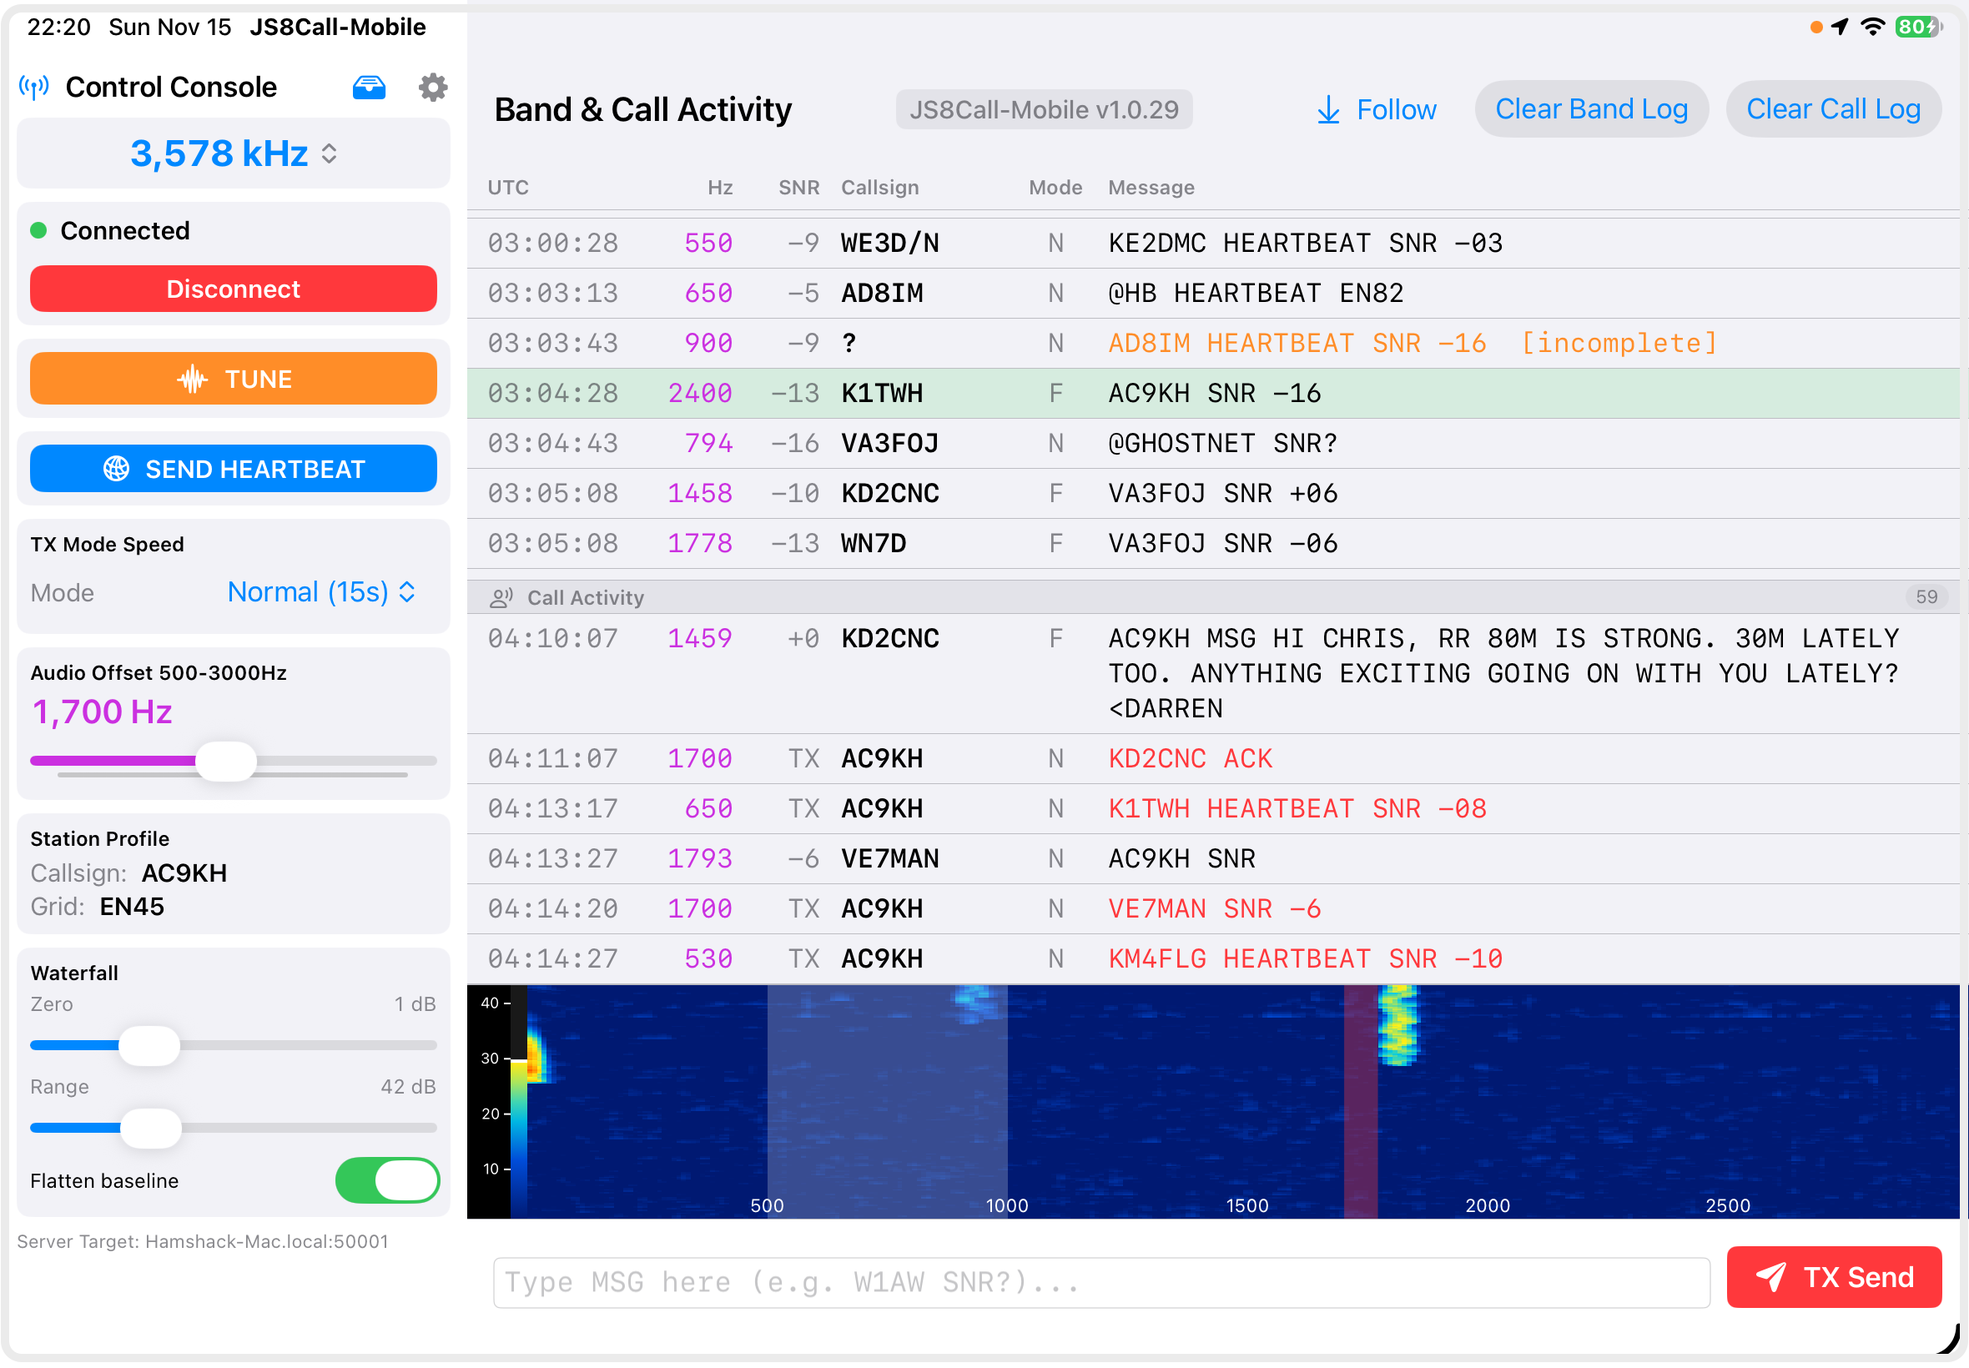
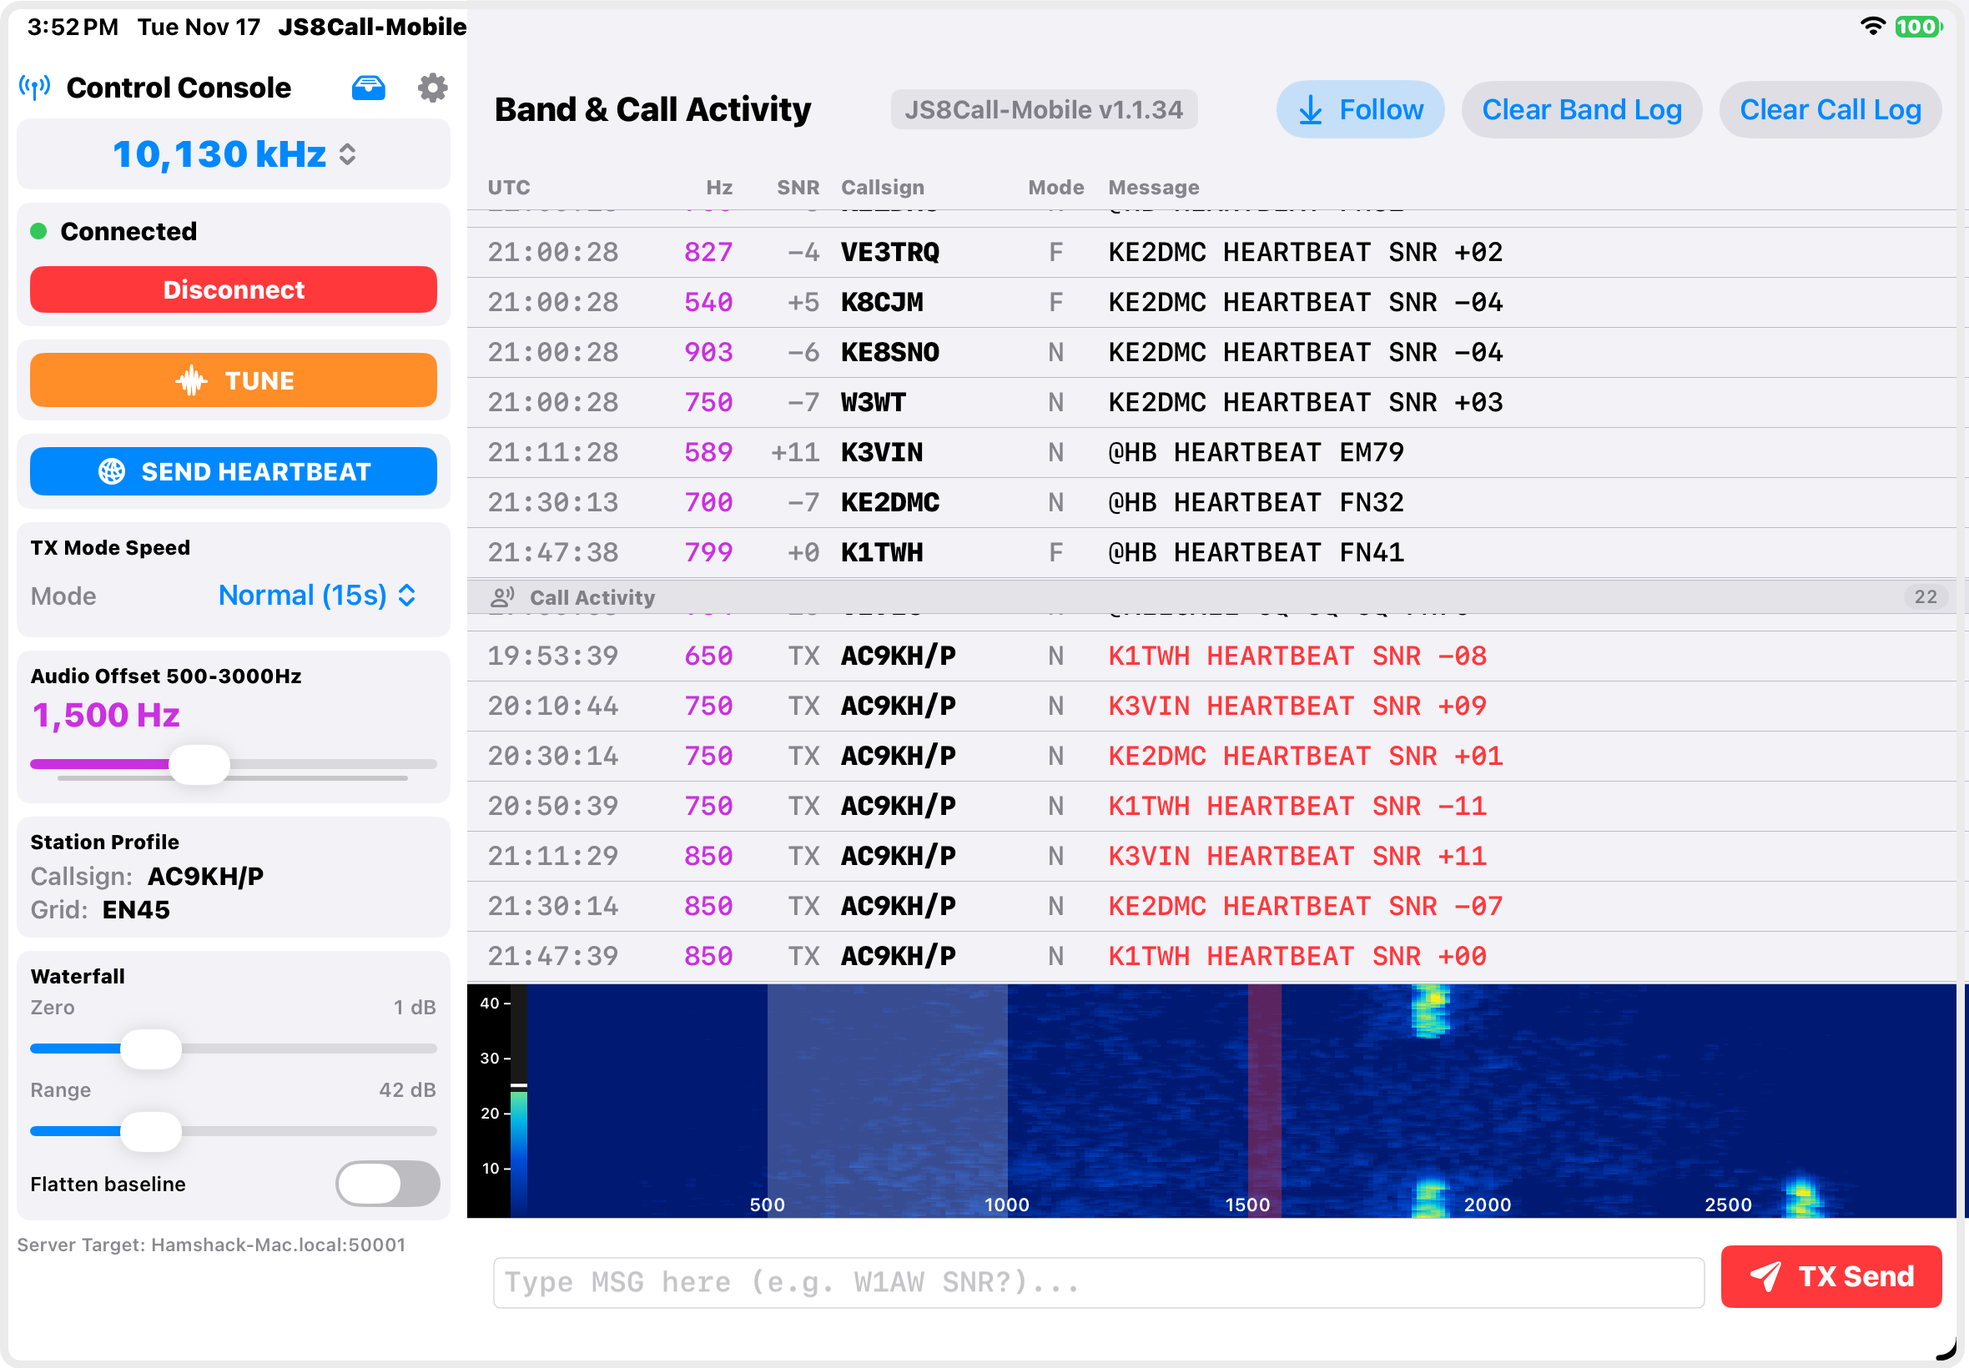
New draft of User Guide listing supported radios and SDR clients New github.io website for JS8Call-Mobile Add stylesheet to website New screenshot of v1.1.34

diff --git a/assets/css/style.scss b/assets/css/style.scss
@@ -1,0 +1,28 @@
+---
+---
+
+@import "{{ site.theme }}";
+
+/* Widen the main reading container on desktop screens */
+.main-content {
+  max-width: 80rem;
+}
+
+/* Tighten table font size and padding so columns stay compact */
+.main-content table {
+  font-size: 0.875rem;
+  width: 100%;
+}
+
+.main-content table th,
+.main-content table td {
+  padding: 0.5rem 0.75rem;
+}
+
+/* Keep the first two columns from wrapping awkwardly */
+.main-content table th:nth-child(1),
+.main-content table td:nth-child(1),
+.main-content table th:nth-child(2),
+.main-content table td:nth-child(2) {
+  white-space: nowrap;
+}

diff --git a/README.md b/README.md
@@ -4,9 +4,9 @@
 
 *Coming soon to the Apple App Store for iPadOS and Mac*
 
-**JS8Call-Mobile** is a full-featured amateur radio weak-signal digital mode client for iPadOS (and Mac Catalyst), built on the **JS8Core** engine. It allows licensed amateur radio operators to decode, compose, relay, and store-and-forward JS8 messages over a local network **TCI (Transceiver Control Interface)** connection or via direct iPad audio coupling.
+**JS8Call-Mobile** is a full-featured amateur radio weak-signal digital mode client for iPadOS (also runs on Mac), built on the **JS8Core** engine. It allows licensed amateur radio operators to decode, compose, relay, and store-and-forward JS8 messages over a local network **TCI (Transceiver Control Interface)** connection or via direct iPad audio coupling.
 
-* **Author:** Chris Olson (AC9KH)
+* **Developer:** Chris Olson (AC9KH)
 * **License:** BSD 3-Clause (App) / MIT (JS8Core)
 * **Privacy Policy:** [View Privacy Policy](PRIVACY.md)
 * **Support & Bug Reports:** [GitHub Issues](https://github.com/Chris-AC9KH/JS8Call-Mobile/issues)
@@ -19,13 +19,31 @@
 
 ## Features
 
-* **TCI Network Integration:** Connects directly over Wi-Fi/LAN to TCI-compatible Software Defined Radios (SDRs) and transceiver servers (such as ExpertSDR3, Thetis, and SunSDR), or FlexRadio with the open-source AetherSDR client for real-time VFO tuning, band preset switching, audio streaming, and PTT keying.
-* **Local iPad Audio Mode:** Decode and transmit JS8 signals using your iPad's built-in microphone/speaker or an external USB/Lightning audio interface when TCI is disconnected. For keying of the rig with local audio it requires a radio that supports VOX trigger over USB audio, or a compatible USB->analog audio interface to the rig.
+* **TCI Network Integration:** Connects directly over Wi-Fi/LAN to any TCI-compatible SDR server or client—including native TCI platforms (such as **ExpertSDR3**, **Thetis**, **SunSDR**, **AetherSDR**, **Quisk**, and **WFview**) as well as Marcus Roskosch's (DL8MRE) **Common-Radio** apps for macOS/iPadOS—providing real-time VFO tuning, band preset switching, audio streaming, and PTT keying across a wide range of transceivers.
+
+### Supported TCI Servers, Clients & Radios
+
+| TCI Server / SDR Client | Platform | Supported Transceivers & Hardware |
+| :--- | :--- | :--- |
+| **ExpertSDR3 / ExpertSDR2** | Windows, macOS, Linux | Expert Electronics SunSDR2 DX, SunSDR2 PRO, SunSDR2 QRP, MB1, ColibriDDC |
+| **Thetis** | Windows | Apache Labs ANAN series (OpenHPSDR protocol radios) and Hermes-Lite 2 |
+| **AetherSDR** | macOS, Linux | FlexRadio FLEX-6000 and FLEX-8000 Signature Series |
+| **Quisk** *(N2ADR)* | Windows, Linux, macOS | Hermes-Lite 2, HiQSDR, Odyssey, SoftRock, SDR-IQ, Perseus, and SoapySDR hardware |
+| **WFview** *(Custom TCI Build)* | macOS | Icom network- and USB-capable transceivers (IC-705, IC-7300, IC-7610, IC-7760, IC-9700, IC-R8600, IC-7850/7851) |
+| **SmartSDR for Mac / iOS** *(DL8MRE)* | macOS, iPadOS, iOS | FlexRadio FLEX-6000, FLEX-8000, and Aurora Series (local or SmartLink) |
+| **SDR-Control** *(DL8MRE)* | macOS, iPadOS, iOS | Icom IC-705, IC-7300, IC-7300 MK2, IC-7610, IC-7760, IC-9700, IC-R8600 |
+| **FT-Control** *(DL8MRE)* | macOS, iPadOS, iOS | Yaesu FTdx101D, FTdx101MP, FTdx10, FT-710 *(via Yaesu SCU-LAN10)* |
+| **TS-Control** *(DL8MRE)* | macOS, iPadOS, iOS | Kenwood TS-890S *(via built-in LAN)* |
+| **K4-Control** *(DL8MRE)* | macOS, iPadOS, iOS | Elecraft K4, K4D, K4HD |
+
+* **Local iPad Audio Mode:** Decode and transmit JS8 signals using your iPad's built-in microphone/speaker
+* **Using Non-TCI Transceivers:** Any radio with analog audio I/O (such as the Xiegu G90, older HF transceivers, or field QRP rigs) can still be used with JS8Call-Mobile in **Local iPad Audio Mode**. Simply connect a class-compliant USB sound card or USB-C audio interface (such as a Digirig or Sabrent USB audio adapter) to your iPad and enable **VOX** on your transceiver for PTT keying.
 * **Split Band & Call Activity Panes:** Separates general band monitoring (**Band Activity**) from directed messages, `@ALLCALL` broadcasts, and your own transmissions (**Call Activity**).
 * **Tap-to-Target QSOs & Command Helper:** Tap any incoming row in **Call Activity** to lock onto that station for a multi-turn QSO, or tap-and-hold (right-click on Mac) to open a categorized JS8 command helper menu.
-* **Multi-Frame Assembly & Speed Modes:** Automatically assembles multi-frame JS8 transmissions in place with UTC timestamps, audio offset (`Hz`), signal-to-noise ratio (`SNR`), callsign, submode (`S`, `N`, `F`, `40`, `60`), and frame status indicators (`[incomplete]`, `[checksum failed]`). NOTE: JS8Call-Mobile only supports transmitting in Slow, Normal or Fast modes since VOX won't work reliably with JS8 40 and JS8 60 modes due to clipping of leading symbols when using a VOX trigger.
+* **Multi-Frame Assembly & Speed Modes:** Automatically assembles multi-frame JS8 transmissions in place with UTC timestamps, audio offset (`Hz`), signal-to-noise ratio (`SNR`), callsign, submode (`S`, `N`, `F`, `40`, `60`), and frame status indicators (`[incomplete]`, `[checksum failed]`). **NOTE:** JS8Call-Mobile only supports transmitting in Slow, Normal or Fast modes since VOX won't work reliably with JS8 40 and JS8 60 modes due to clipping of leading symbols when using a VOX trigger to key your rig.
 * **Store-and-Forward Inbox & Live Relays:** Full support for storing messages in a local SQLite inbox, multi-hop relay routing (`>`), automatic `RETRIEVE MSG` notifications, and full JS8 directed command auto-replies.
 * **Live Waterfall & Passband Monitor:** Real-time spectrum waterfall (`500–3000 Hz`) with adjustable **Zero** floor, **Range**, **Flatten baseline** toggle, and visual TX audio offset marker.
+* **New for v1.1.x & Later:** Saves **Band Activity** and **Call Activity** logs for each band, persistent on app shutdown and restart, until they are cleared using the **Clear Band/Call Log** buttons. Will store up to 400 records for each log, for each band.
 
 ---
 
@@ -37,17 +55,22 @@
 3. Tap **Done** to save. Your settings are stored locally on your iPad.
 
 ### 2. Choose Your Audio / Radio Connection
-JS8Call-Mobile supports two operating modes:
+JS8Call-Mobile supports three operating modes:
 
-* **Option A: TCI Network Connection (Recommended)**
-  1. Open **Preferences and Settings** and enter your TCI server's **IP Address** (or `.local` hostname) and **Connection Port** (default `40001` or `50001`).
+* **Option A: TCI Network Connection (recommended)**
+  1. Open **Preferences and Settings** and enter your TCI server's **IP Address** (or `.local` hostname) and **Connection Port** (default **`40001`** for most TCI clients including DL8MRE Common-Radio apps, or `50001` on some ExpertSDR/Thetis/AetherSDR and WFview setups).
   2. Ensure **Use iPad audio when TCI is disconnected** is turned off. Only use this if you intend to use USB or mic/speaker audio.
   3. On the main **Control Console**, tap **Connect TCI**. The status dot will turn green (**Connected**) and your active VFO frequency will appear at the top.
 
-* **Option B: Local iPad Audio Coupling**
+ **Option B: USB Audio Connection**
   1. Open **Preferences and Settings** and enable **Use iPad audio when TCI is disconnected**.
   2. Grant microphone permission when prompted by iPadOS.
-  3. Use a USB audio interface connected to your transceiver or acoustic coupling near your radio's speaker/mic.
+  3. Use a USB-C or Lightning to analog audio interface connected to your iPad.
+
+* **Option C: Local iPad Audio Coupling**
+  1. Open **Preferences and Settings** and enable **Use iPad audio when TCI is disconnected**.
+  2. Grant microphone permission when prompted by iPadOS.
+  3. Use acoustic coupling near your radio's speaker/mic.
 
 ---
 
@@ -57,13 +80,14 @@ JS8Call-Mobile supports two operating modes:
 * **Inbox (`📥`):** Opens your stored message inbox. A red badge displays the count of unread messages addressed to your callsign. You can compose outbound store-and-forward messages, read received messages, and manage stored traffic.
 * **Connect TCI / Disconnect:** Opens or closes the network socket to your TCI server. A red **TX** badge appears next to the status indicator whenever the transmitter is keyed.
 * **TUNE:** Transmits a continuous carrier tone at your selected **Audio Offset** frequency so you can tune an antenna tuner or verify RF output. Tap **TUNING...** again to stop *(requires active TCI connection, tune is disabled for iPad audio)*.
-* **SEND HEARTBEAT:** Broadcasts an `@HB HEARTBEAT [GRID]` frame on a clear frequency automatically chosen inside the `500–950 Hz` heartbeat sub-band.
+* **SEND HEARTBEAT:** Broadcasts an `@HB HEARTBEAT [GRID]` frame on a clear frequency automatically chosen inside the `500–1000 Hz` heartbeat sub-band.
 * **TX Mode Speed:** Selects your outbound transmit submode: **Slow (30s)**, **Normal (15s)**, or **Fast (10s)**. Incoming frames are decoded across all supported submodes (`S`, `N`, `F`, `40`, `60`).
-* **Audio Offset (500–3000 Hz):** Sets your transmit audio tone frequency in 10 Hz steps, indicated by the vertical marker on the waterfall. Your offset remains locked where you set it for all directed transmissions and replies; only `@HB` broadcasts and `HEARTBEAT ACK` responses use the `500–950 Hz` heartbeat sub-band.
+* **Audio Offset (500–3000 Hz):** Sets your transmit audio tone frequency in 10 Hz steps, indicated by the vertical marker on the waterfall. Your offset remains locked where you set it for all directed transmissions and replies; only `@HB` broadcasts and `HEARTBEAT ACK` responses use the `500–1000 Hz` heartbeat sub-band.
 * **Waterfall Controls:**
-  * **Zero:** Adjusts the minimum signal floor (`dB`) displayed on the waterfall.
+  * **Zero:** Adjusts the minimum signal floor (`dB`) to remove "white noise" from the waterfall.
   * **Range:** Adjusts the dynamic contrast range (`dB`) of incoming signals.
   * **Flatten baseline:** Normalizes passband tilt across the receiver filter width.
+
 ---
 
 ## Reading & Composing Messages
@@ -76,6 +100,7 @@ The main log view is divided into two synchronized panes sharing the same column
   * **Orange text** indicates partial (`[incomplete]`) or corrupted (`[checksum failed]`) frames.
 * **Call Activity (Middle Pane):** Filters traffic down to QSO-relevant activity: incoming messages addressed to you, `@ALLCALL` traffic, and your own outgoing transmissions.
   * **Red text** indicates your own outgoing transmissions (`TX`).
+  * **NOTE:** JS8Call-Mobile does not display a EOT or End Of Transmission indicator. Incoming messages appear as greyed-out text followed by three dots ... until the message is complete, at which time the text switches to normal, indicating EOT.
 * **Follow / Clear Controls:**
   * **Follow** keeps both logs scrolled to the newest message (dragging either log manually pauses Follow until toggled back on).
   * **Clear Band Log** empties the top Band Activity pane.
@@ -100,24 +125,25 @@ Open **Preferences and Settings** to configure unattended or semi-automated stat
   * `[YOURCALL] HEARING?` → Replies with up to the 4 most recently heard callsigns (`HEARING CALL1 CALL2 CALL3 CALL4`).
   * `[YOURCALL] QUERY CALL [CALL]?` (or `@ALLCALL QUERY CALL [CALL]?`) → Replies with `YES [CALL] [SNR] [AGE]` if heard, or `NO` (for direct queries) if not heard.
   * `[YOURCALL] AGN?` → Re-transmits your most recent outgoing message to that station from **Call Activity**.
-  * `[YOURCALL] MSG [TEXT]` / `MSG TO:[CALL] [TEXT]` → Stores the message in your local SQLite inbox and replies with `ACK`.
+  * `[YOURCALL] MSG [TEXT]` / `MSG TO:[CALL] [TEXT]` → Stores the message in your local Message Inbox and replies with `ACK`.
   * `[YOURCALL] QUERY MSGS` / `QUERY MSG [ID]` → Advertises (`YES MSG ID #`) and delivers stored messages addressed to the requesting station, marking them read upon `ACK`.
   * `[YOURCALL]>[NEXTHOP] [TEXT]` → Automatically forwards multi-hop relay frames along the specified callsign path and routes returning `ACK` confirmations back to the originator.
-* **Push Retrieve Notices & Alerts:** When **Auto-Replies** is enabled, JS8Call-Mobile periodically notifies recently heard stations (`[CALL] RETRIEVE MSG [ID]`) if you are holding unread mail for them. When another station sends you a `RETRIEVE MSG` notice, an alert banner pops up with the exact `QUERY MSG` command needed to retrieve it.
-* **Enable Heartbeat ACK:** Automatically responds to incoming `@HB` broadcasts with a signal report (`HEARTBEAT SNR +XX`) on a clear `500–950 Hz` sub-band offset, with a built-in **55-minute cooldown** per callsign to prevent duplicate QRM.
-* **Hold PTT between frames of multi-frame messages:** Keeps the transmitter keyed continuously across frame boundaries during multi-frame transmissions instead of unkeying between frames. This only applies to TCI connected radios.
+* **Push Retrieve Notices & Alerts:** When **Auto-Replies** is enabled, JS8Call-Mobile periodically notifies recently heard stations (`[CALL] RETRIEVE MSG [ID]`) if you are holding unread mail for them. When another station sends you a `RETRIEVE MSG` notice, an alert banner pops up with the exact `QUERY MSG` command needed to retrieve it. If JS8Call-Mobile has sent a stored message notification to a station and the message is not retrieved, it will re-notify at most once every 8 hours if that station is seen on the band again.
+* **Enable Heartbeat ACK:** Automatically responds to incoming `@HB` broadcasts with a signal report (`HEARTBEAT SNR +XX`) on a clear `500–1000 Hz` sub-band offset. JS8Call-Mobile will not reply with a HB ACK to the same station more than once every 55 minutes.
+* **Hold PTT between frames of multi-frame messages:** Keeps the transmitter keyed continuously across frame boundaries during multi-frame transmissions instead of unkeying between frames. This only applies to TCI connected radios with CAT control.
 
 ---
 
-## URLs for App Store Connect & Settings
+## Support and Links
 
 * **User Guide: this document**
 * **Support:** via the issues list at [JS8Call-Mobile](https://github.com/Chris-AC9KH/JS8Call-Mobile/issues)
-* **[Privacy Policy](https://github.com/Chris-AC9KH/JS8Call-Mobile/blob/main/PRIVACY.md)**
+* [**Privacy Policy**](PRIVACY.html)
+
 ---
 
 ## Acknowledgments & Licenses
 
-* **JS8Call-Mobile** is licensed under the **BSD 3-Clause License**. See [`LICENSE`](LICENSE) for full details.
+* **JS8Call-Mobile** is licensed under the **BSD 3-Clause License**. See [`LICENSE`](LICENSE.html) for full details.
 * Built using **[JS8Core](https://github.com/JS8Call-improved/JS8Core)**, licensed under the **MIT License** (Copyright © 2025 js8core contributors, © 2018 Jordan Sherer, © 2026 JS8Call Official).
 

diff --git a/LICENSE.md b/LICENSE.md
@@ -1,0 +1,15 @@
+---
+layout: default
+title: BSD 3-Clause License
+---
+
+Copyright (c) 2026, Chris Olson (AC9KH)  
+All rights reserved.
+
+Redistribution and use in source and binary forms, with or without modification, are permitted provided that the following conditions are met:
+
+1. Redistributions of source code must retain the above copyright notice, this list of conditions and the following disclaimer.
+2. Redistributions in binary form must reproduce the above copyright notice, this list of conditions and the following disclaimer in the documentation and/or other materials provided with the distribution.
+3. Neither the name of the copyright holder nor the names of its contributors may be used to endorse or promote products derived from this software without specific prior written permission.
+
+THIS SOFTWARE IS PROVIDED BY THE COPYRIGHT HOLDERS AND CONTRIBUTORS "AS IS" AND ANY EXPRESS OR IMPLIED WARRANTIES, INCLUDING, BUT NOT LIMITED TO, THE IMPLIED WARRANTIES OF MERCHANTABILITY AND FITNESS FOR A PARTICULAR PURPOSE ARE DISCLAIMED. IN NO EVENT SHALL THE COPYRIGHT HOLDER OR CONTRIBUTORS BE LIABLE FOR ANY DIRECT, INDIRECT, INCIDENTAL, SPECIAL, EXEMPLARY, OR CONSEQUENTIAL DAMAGES (INCLUDING, BUT NOT LIMITED TO, PROCUREMENT OF SUBSTITUTE GOODS OR SERVICES; LOSS OF USE, DATA, OR PROFITS; OR BUSINESS INTERRUPTION) HOWEVER CAUSED AND ON ANY THEORY OF LIABILITY, WHETHER IN CONTRACT, STRICT LIABILITY, OR TORT (INCLUDING NEGLIGENCE OR OTHERWISE) ARISING IN ANY WAY OUT OF THE USE OF THIS SOFTWARE, EVEN IF ADVISED OF THE POSSIBILITY OF SUCH DAMAGE.

diff --git a/PRIVACY.md b/PRIVACY.md
@@ -2,7 +2,7 @@
 
 **Effective Date:** November 11, 2026  
 **Developer:** Chris Olson (AC9KH)  
-**Repository / Homepage:** [https://github.com/Chris-AC9KH/JS8Call-Mobile/](https://github.com/Chris-AC9KH/JS8Call-Mobile/)
+**Homepage:** [JS8Call-Mobile](https://chris-ac9kh.github.io/JS8Call-Mobile)
 
 ## Overview
 
@@ -30,7 +30,7 @@ JS8Call-Mobile does not integrate any third-party advertising networks, analytic
 
 ## Changes to This Policy
 
-If future updates to JS8Call-Mobile change how data is handled, this Privacy Policy will be updated accordingly at[](https://github.com/Chris-AC9KH/JS8Call-Mobile/issues) [https://github.com/Chris-AC9KH/JS8Call-Mobile/blob/main/PRIVACY.md](https://github.com/Chris-AC9KH/JS8Call-Mobile/blob/main/PRIVACY.md)
+If future updates to JS8Call-Mobile change how data is handled, this Privacy Policy will be updated accordingly
 
 ## Contact
 
